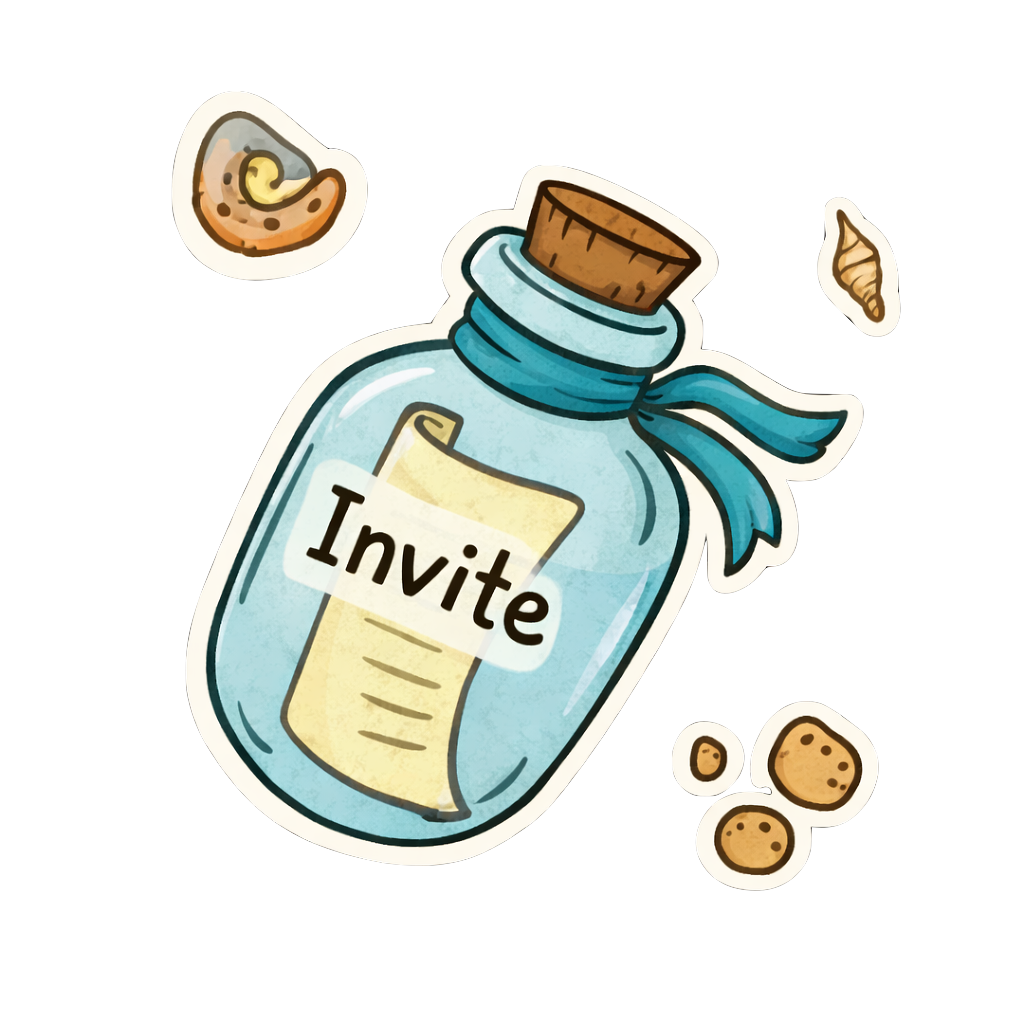
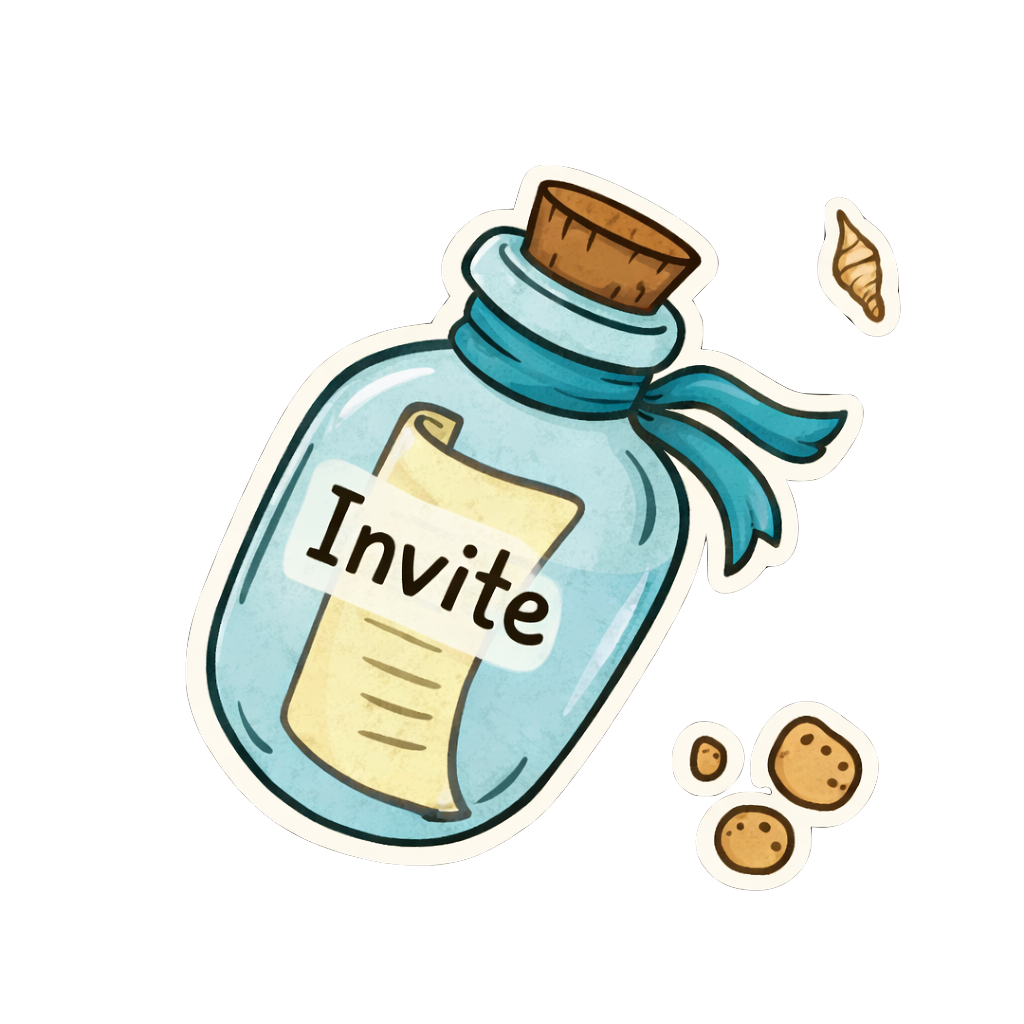
username PaintBrush1 and PaintBrush2

Changed region(s): [[0.1875, 0.0938, 0.3438, 0.25]]

diff --git a/frontend-app/lib/features/profile/pages/profile_view_page.dart b/frontend-app/lib/features/profile/pages/profile_view_page.dart
@@ -1471,45 +1471,79 @@ class _ProfileViewPageState extends State<ProfileViewPage> {
                         ),
                         const SizedBox(width: 16),
                         Expanded(
-                          child: WashedBrushBackground(
-                            seed: 42,
-                            color: const Color(0xE8F5EDE0), // 米白色
-                            padding: const EdgeInsets.fromLTRB(
-                              20,
-                              4,
-                              12,
-                              20,
-                            ), // 上少下多，文字上移，总高度不变笔刷不缩短
-                            child: Column(
-                              crossAxisAlignment: CrossAxisAlignment.start,
-                              mainAxisSize: MainAxisSize.min,
-                              children: [
-                                Text(
-                                  user.username,
-                                  style: GoogleFonts.caveat(
-                                    fontSize: 36,
-                                    fontWeight: FontWeight.bold,
-                                    color: const Color(
-                                      0xFF6B4F4F,
-                                    ).withOpacity(0.8),
+                          child: Transform.translate(
+                            offset: const Offset(0, -8),
+                            child: Stack(
+                              clipBehavior: Clip.none,
+                            children: [
+                              // 两层笔刷：PaintBrush1 底层，PaintBrush2 上层，负边距扩大面积
+                              Positioned(
+                                left: -28,
+                                top: -22,
+                                right: -28,
+                                bottom: -22,
+                                child: Opacity(
+                                  opacity: 0.30,
+                                  child: Image.asset(
+                                    'assets/profile_passport/PaintBrush1.png',
+                                    fit: BoxFit.fill,
                                   ),
-                                  maxLines: 1,
-                                  overflow: TextOverflow.ellipsis,
                                 ),
-                                const SizedBox(height: 2),
-                                FittedBox(
-                                  fit: BoxFit.scaleDown,
-                                  alignment: Alignment.centerLeft,
-                                  child: Text(
-                                    user.email,
-                                    style: GoogleFonts.kalam(
-                                      fontSize: 15,
-                                      color: Colors.grey[600],
+                              ),
+                              Positioned(
+                                left: -12,
+                                top: -8,
+                                right: -12,
+                                bottom: -8,
+                                child: Opacity(
+                                  opacity: 0.50,
+                                  child: Image.asset(
+                                    'assets/profile_passport/PaintBrush2.png',
+                                    fit: BoxFit.fill,
+                                  ),
+                                ),
+                              ),
+                              // 用户名与邮箱叠在笔刷之上，笔刷容器包裹
+                              Padding(
+                                padding: const EdgeInsets.fromLTRB(
+                                  28,
+                                  4,
+                                  12,
+                                  20,
+                                ),
+                                child: Column(
+                                  crossAxisAlignment: CrossAxisAlignment.start,
+                                  mainAxisSize: MainAxisSize.min,
+                                  children: [
+                                    Text(
+                                      user.username,
+                                      style: GoogleFonts.caveat(
+                                        fontSize: 36,
+                                        fontWeight: FontWeight.bold,
+                                        color: const Color(
+                                          0xFF6B4F4F,
+                                        ).withOpacity(0.8),
+                                      ),
+                                      maxLines: 1,
+                                      overflow: TextOverflow.ellipsis,
                                     ),
-                                    maxLines: 1,
-                                  ),
+                                    const SizedBox(height: 2),
+                                    FittedBox(
+                                      fit: BoxFit.scaleDown,
+                                      alignment: Alignment.centerLeft,
+                                      child: Text(
+                                        user.email,
+                                        style: GoogleFonts.kalam(
+                                          fontSize: 15,
+                                          color: Colors.grey[600],
+                                        ),
+                                        maxLines: 1,
+                                      ),
+                                    ),
+                                  ],
                                 ),
-                              ],
+                              ),
+                            ],
                             ),
                           ),
                         ),

diff --git a/frontend-app/lib/core/config/api_config.dart b/frontend-app/lib/core/config/api_config.dart
@@ -12,7 +12,7 @@ class ApiConfig {
 
   //static const String serverIp = "3.107.97.174"; // IP 换成AWS 公网 IP
   // static const String serverIp = "10.0.2.2"; // Android 模拟器使用此 IP（默认）
-  static const String serverIp = "172.24.31.235"; // 真机调试时使用此 IP
+  static const String serverIp = "172.20.10.3"; // 真机调试时使用此 IP
 
   // ⚠️ 后端是单体应用，所有服务都在 8080 端口
   // Java 后端端口 (查看 Java 项目终端显示的 http://0.0.0.0:xxxx)